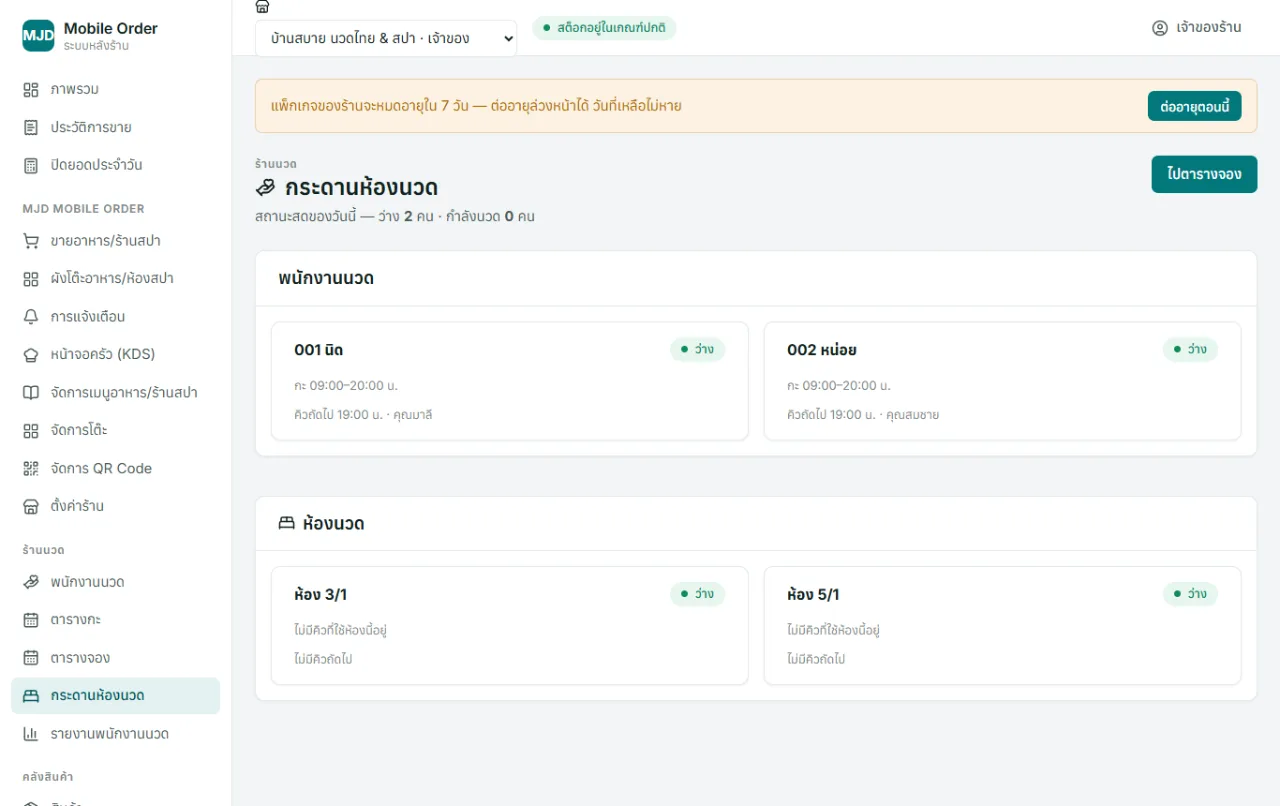
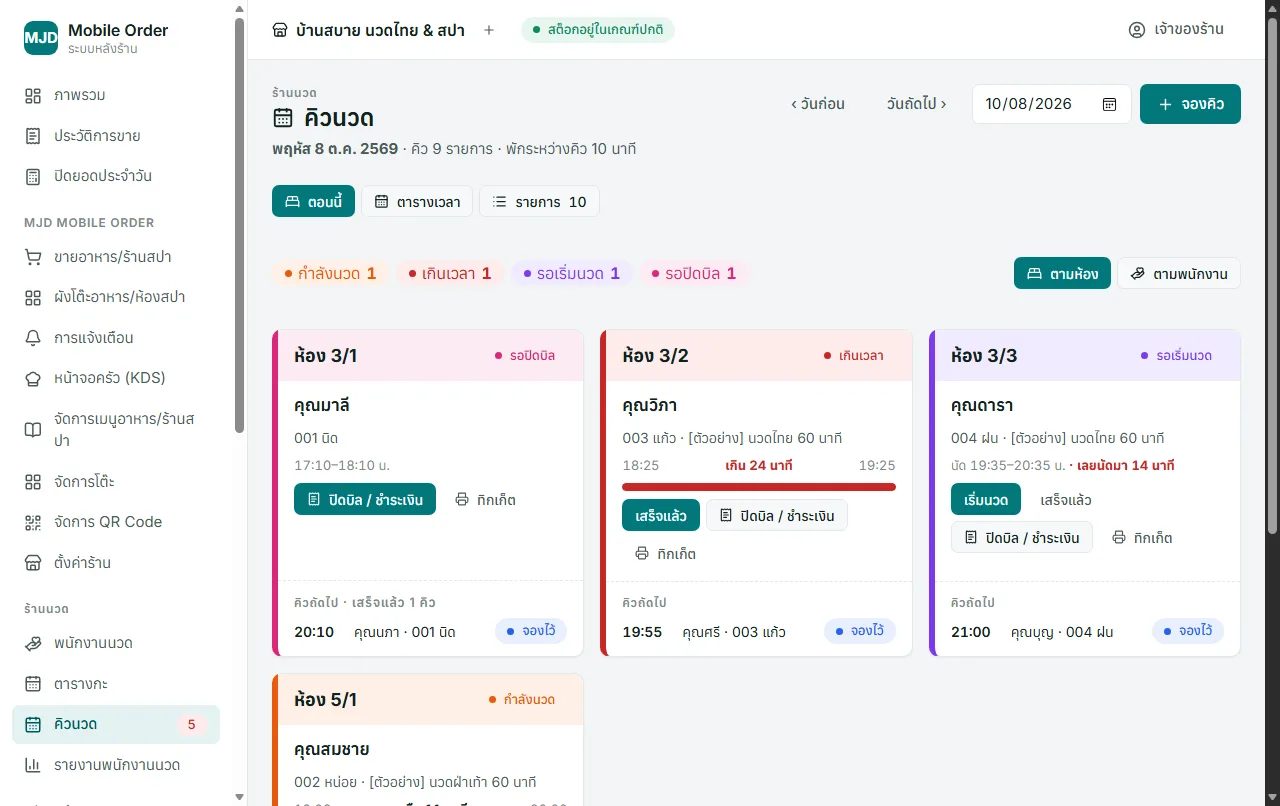
docs(guide): ภาพคู่มือหน้าคิวนวดใหม่ + ตารางเวลาเปิดที่เวลาปัจจุบัน
- ถ่ายภาพคู่มือใหม่ 3 ภาพจากระบบจริง (แท็บตอนนี้ · ตารางเวลา · รายการ)
- ตารางเวลาของวันนี้เลื่อนไปที่เส้น "ตอนนี้" เองตอนเปิดแท็บ (ครั้งเดียว ไม่ดึงกลับตอน refresh)
- คอลัมน์ชื่อพนักงาน/ห้องอยู่กับที่ตอนเลื่อนแนวนอน (.timeline-label sticky)

diff --git a/components/booking-schedule.tsx b/components/booking-schedule.tsx
@@ -1,7 +1,7 @@
 "use client"
 
 import { BOOKING_STATUS_CHIP, BOOKING_STATUS_LABEL } from "@/lib/booking-status"
-import { useMemo, useState } from "react"
+import { useCallback, useMemo, useRef, useState } from "react"
 import Link from "next/link"
 import { useRouter } from "next/navigation"
 import { toast } from "sonner"
@@ -130,6 +130,9 @@ export function BookingSchedule({
   const [checkInRoom, setCheckInRoom] = useState("")
   // แถวของตารางเวลา: ตามพนักงาน (จองได้ตามกะ) หรือตามห้อง (เห็นห้องว่าง/ไม่ว่าง)
   const [timelineRows, setTimelineRows] = useState<"therapists" | "rooms">("therapists")
+  // เปิดตารางเวลาของวันนี้แล้วเลื่อนไปที่ "ตอนนี้" ให้เอง (2026-10-08) — เดิมเปิดมาที่ 09:00 คิวช่วงเย็นต้องเลื่อนหาเอง
+  // เลื่อนครั้งเดียวต่อการเปิดแท็บ (refresh อัตโนมัติทุก 30 วิไม่ดึงกลับ) · ปิดแท็บแล้ว ref ได้ null → เปิดใหม่เลื่อนอีกรอบ
+  const scrolledToNow = useRef(false)
   const dayLabel = formatBusinessDate(new Date(`${dayKey}T12:00:00+07:00`))
 
   const shiftByTherapist = useMemo(() => new Map(shifts.map((s) => [s.therapistId, s])), [shifts])
@@ -154,6 +157,20 @@ export function BookingSchedule({
 
   const xOf = (minute: number) => ((minute - range.start) / 60) * HOUR_WIDTH
   const nowX = nowMinute !== null && nowMinute >= range.start && nowMinute <= range.end ? xOf(nowMinute) : null
+  // อ่านตำแหน่งเส้น "ตอนนี้" จาก DOM (ไม่ผูกกับ nowX) — callback คงที่ จึงไม่ถูกเรียกซ้ำทุกครั้งที่หน้า refresh
+  const scrollToNow = useCallback((el: HTMLDivElement | null) => {
+    if (!el) {
+      scrolledToNow.current = false
+      return
+    }
+    if (scrolledToNow.current) return
+    const line = el.querySelector(".timeline-now")
+    if (!line) return
+    // เว้นซ้ายไว้ราว 2 ชั่วโมงให้เห็นคิวที่เพิ่งผ่านไปด้วย
+    const offset = line.getBoundingClientRect().left - el.getBoundingClientRect().left + el.scrollLeft
+    el.scrollLeft = Math.max(0, offset - HOUR_WIDTH * 2)
+    scrolledToNow.current = true
+  }, [])
 
   const selectedProgram = programs.find((p) => p.id === draft.menuItemId) ?? null
 
@@ -497,7 +514,7 @@ export function BookingSchedule({
       const items = onTimeline.filter((b) => b.tableId === row.roomId)
       return (
         <div key={row.key} className="row" style={{ gap: 0, borderTop: "1px solid var(--line)", alignItems: "stretch" }}>
-          <div style={{ width: 160, flex: "none", padding: "10px 12px", fontWeight: 700 }}>{row.label}</div>
+          <div className="timeline-label" style={{ width: 160, flex: "none", padding: "10px 12px", fontWeight: 700 }}>{row.label}</div>
           <div style={{ position: "relative", width: range.width, minHeight: 52 }}>
             {slots.map((minute) => (
               <span key={minute} className={`timeline-tick${minute % 60 === 0 ? "" : " is-half"}`} style={{ left: xOf(minute) }} aria-hidden />
@@ -670,11 +687,11 @@ export function BookingSchedule({
           ) : null}
         </div>
 
-        <div style={{ overflowX: "auto" }}>
+        <div style={{ overflowX: "auto" }} ref={scrollToNow}>
           <div style={{ minWidth: range.width + 160 }}>
             {/* แถบเวลา */}
             <div className="row" style={{ gap: 0, borderBottom: "1px solid var(--line)" }}>
-              <div style={{ width: 160, flex: "none", padding: "8px 12px" }} className="t-caption">
+              <div style={{ width: 160, flex: "none", padding: "8px 12px" }} className="t-caption timeline-label">
                 {timelineRows === "rooms" ? "ห้อง" : "พนักงาน"}
               </div>
               <div style={{ position: "relative", height: 36, width: range.width }}>
@@ -716,7 +733,7 @@ export function BookingSchedule({
                   className="row"
                   style={{ gap: 0, borderTop: "1px solid var(--line)", alignItems: "stretch", background: unavailable ? "var(--surface-2)" : undefined }}
                 >
-                  <div style={{ width: 160, flex: "none", padding: "10px 12px" }}>
+                  <div className="timeline-label" style={{ width: 160, flex: "none", padding: "10px 12px", background: unavailable ? "var(--surface-2)" : undefined }}>
                     <span className="num" style={{ fontWeight: 700 }}>
                       {therapist.code}
                     </span>{" "}

diff --git a/lib/guide-content.ts b/lib/guide-content.ts
@@ -320,8 +320,9 @@ export const GUIDE_GROUPS: GuideGroup[] = [
           "ขาย walk-in ที่จอขาย แท็บ “นวดสปา” ต้องเลือกพนักงานนวดทุกครั้ง",
         ],
         images: [
-          img("spa-bookings", "หน้าคิวนวด แท็บตารางเวลา"),
-          img("spa-board", "หน้าคิวนวด แท็บตอนนี้"),
+          img("spa-board", "หน้าคิวนวด แท็บตอนนี้ — การ์ดต่อห้อง สีบอกสถานะ"),
+          img("spa-bookings", "หน้าคิวนวด แท็บตารางเวลา — เปิดมาที่เวลาปัจจุบัน"),
+          img("spa-queue-list", "หน้าคิวนวด แท็บรายการ — ปุ่มขั้นถัดไป + เมนู ⋯"),
           img("spa-pos", "เลือกพนักงานนวดบนจอขาย"),
         ],
         tips: ["“รายงานพนักงานนวด” สรุปจำนวนครั้งและยอดของแต่ละคน กรองตามช่วงวันหรือประเภทบริการได้"],

diff --git a/app/globals.css b/app/globals.css
@@ -778,6 +778,14 @@
     border-left: 4px solid;
   }
   /* ขีดชั่วโมง (เข้ม) / ครึ่งชั่วโมง (จาง) ลากลงทุกแถว — บอกได้ทันทีว่าคิวเริ่มเต็มชั่วโมงหรือครึ่ง */
+  /* คอลัมน์ชื่อพนักงาน/ห้องบนตารางเวลาอยู่กับที่ตอนเลื่อนแนวนอน (2026-10-08 — ตารางเลื่อนไปเวลาปัจจุบันเอง ชื่อต้องไม่หาย) */
+  .timeline-label {
+    position: sticky;
+    left: 0;
+    z-index: 3;
+    background: var(--surface);
+    border-right: 1px solid var(--line);
+  }
   .timeline-tick {
     position: absolute;
     top: 0;

diff --git a/Docs/spec.md b/Docs/spec.md
@@ -2380,6 +2380,8 @@ enum ResourceKey {
       **รายการ** = 4 คอลัมน์ ปุ่มขั้นถัดไปปุ่มเดียว (เช็กอิน → เริ่มนวด → เสร็จแล้ว → ปิดบิล) ที่เหลือในเมนู "⋯" ·
       `/spa/board` redirect ไปแท็บตอนนี้ · เมนูเดียว "คิวนวด" + badge `countSpaQueueActions()` (ใกล้ถึง/เลยเวลายังไม่เช็กอิน · รอเริ่มนวด · นวดเกินเวลา · นวดเสร็จบิลยังเปิด) ·
       **หน้าแจ้งเตือนเลิกแสดง/นับคิวจอง** (เหลือห้อง walk-in รอเริ่มนวด) · เทส `spa-queue.test.tsx` 4 · tenant-isolation +1 query
+- [x] ตารางเวลาของวันนี้เลื่อนไปที่เวลาปัจจุบันเองตอนเปิดแท็บ (ครั้งเดียว ไม่ดึงกลับตอน refresh) · คอลัมน์ชื่อพนักงาน/ห้องอยู่กับที่ (`.timeline-label` sticky) ·
+      ภาพคู่มือหน้าคิวนวด 3 ภาพถ่ายใหม่จากระบบจริง (`spa-board` · `spa-bookings` · `spa-queue-list`)
 - [x] เทส `spa-board.test.ts` 9 (รวม ★ กดเริ่มนวดพร้อมกัน 5 เครื่อง) · `booking.test.ts` ปรับเคสห้องที่ถึงเวลาแต่ยังไม่เช็กอิน
 - [ ] deploy + เจ้าของลองหน้าจริง
 
